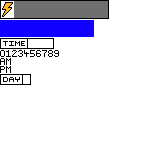
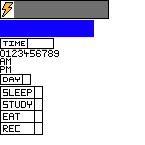
semi working activity count. breaks if activity is done more than 9 times so need to fix.

diff --git a/core/src/com/tecchtitans/eng1/systems/UIRenderSystem.java b/core/src/com/tecchtitans/eng1/systems/UIRenderSystem.java
@@ -192,6 +192,79 @@ public class UIRenderSystem extends EntitySystem {
 
                 // Draw number
                 batch.draw(texture, renderLocationX + numberXOffset, renderLocationY + numberYOffset, numberRenderWidth, numberRenderHeight, numberSrcX, numbersSrcY, numbersSrcWidth, numbersSrcHeight, false, false);
+            } else if (uiComponent.type == UIComponentType.ACTCOUNT) {
+                UIActivityCountComponent uiActivityCountComponent = ComponentMappers.activityCount.get(entity);
+
+                int outerSrcX = uiActivityCountComponent.outerPartSrcX;
+                int outerSrcY = uiActivityCountComponent.outerPartSrcY;
+
+                int outerSrcWidth = uiActivityCountComponent.outerPartSrcWidth;
+                int outerSrcHeight = uiActivityCountComponent.outerPartSrcHeight;
+
+                float totalWidthRatio = textureComponent.width / (float)outerSrcWidth;
+                float totalHeightRatio = textureComponent.height / (float)outerSrcHeight;
+
+                // Draw outer part
+                batch.draw(texture, renderLocationX, renderLocationY, renderWidth, renderHeight, outerSrcX, outerSrcY, outerSrcWidth, outerSrcHeight, false, false);
+
+                int sleepCount = uiActivityCountComponent.sleepCount;
+
+                int numbersSrcWidth = uiActivityCountComponent.numbersSrcWidth;
+                int numbersSrcHeight = uiActivityCountComponent.numbersSrcHeight;
+
+                int sleepNumberSrcX = uiActivityCountComponent.numbersSrcX + ((numbersSrcWidth + 1) * sleepCount);
+                int sleepNumberSrcY = uiActivityCountComponent.numbersSrcY;
+
+                int sleepNumberXOffset = Math.round(uiActivityCountComponent.sleepNumberXOffset * totalWidthRatio);
+                int sleepNumberYOffset = Math.round(uiActivityCountComponent.sleepNumberYOffset * totalHeightRatio);
+
+                int sleepNumberRenderWidth = Math.round(numbersSrcWidth * totalWidthRatio);
+                int sleepNumberRenderHeight = Math.round(numbersSrcHeight * totalHeightRatio);
+
+                // Draw sleep number
+                batch.draw(texture, renderLocationX + sleepNumberXOffset, renderLocationY + sleepNumberYOffset, sleepNumberRenderWidth, sleepNumberRenderHeight, sleepNumberSrcX, sleepNumberSrcY, numbersSrcWidth, numbersSrcHeight, false, false);
+
+                int studyCount = uiActivityCountComponent.studyCount;
+
+                int studyNumberSrcX = uiActivityCountComponent.numbersSrcX + ((numbersSrcWidth + 1) * studyCount);
+                int studyNumberSrcY = uiActivityCountComponent.numbersSrcY;
+
+                int studyNumberXOffset = Math.round(uiActivityCountComponent.studyNumberXOffset * totalWidthRatio);
+                int studyNumberYOffset = Math.round(uiActivityCountComponent.studyNumberYOffset * totalHeightRatio);
+
+                int studyNumberRenderWidth = Math.round(numbersSrcWidth * totalWidthRatio);
+                int studyNumberRenderHeight = Math.round(numbersSrcHeight * totalHeightRatio);
+
+                // Draw study number
+                batch.draw(texture, renderLocationX + studyNumberXOffset, renderLocationY + studyNumberYOffset, studyNumberRenderWidth, studyNumberRenderHeight, studyNumberSrcX, studyNumberSrcY, numbersSrcWidth, numbersSrcHeight, false, false);
+
+                int eatCount = uiActivityCountComponent.eatCount;
+
+                int eatNumberSrcX = uiActivityCountComponent.numbersSrcX + ((numbersSrcWidth + 1) * eatCount);
+                int eatNumberSrcY = uiActivityCountComponent.numbersSrcY;
+
+                int eatNumberXOffset = Math.round(uiActivityCountComponent.eatNumberXOffset * totalWidthRatio);
+                int eatNumberYOffset = Math.round(uiActivityCountComponent.eatNumberYOffset * totalHeightRatio);
+
+                int eatNumberRenderWidth = Math.round(numbersSrcWidth * totalWidthRatio);
+                int eatNumberRenderHeight = Math.round(numbersSrcHeight * totalHeightRatio);
+
+                // Draw eat number
+                batch.draw(texture, renderLocationX + eatNumberXOffset, renderLocationY + eatNumberYOffset, eatNumberRenderWidth, eatNumberRenderHeight, eatNumberSrcX, eatNumberSrcY, numbersSrcWidth, numbersSrcHeight, false, false);
+
+                int recCount = uiActivityCountComponent.recCount;
+
+                int recNumberSrcX = uiActivityCountComponent.numbersSrcX + ((numbersSrcWidth + 1) * recCount);
+                int recNumberSrcY = uiActivityCountComponent.numbersSrcY;
+
+                int recNumberXOffset = Math.round(uiActivityCountComponent.recNumberXOffset * totalWidthRatio);
+                int recNumberYOffset = Math.round(uiActivityCountComponent.recNumberYOffset * totalHeightRatio);
+
+                int recNumberRenderWidth = Math.round(numbersSrcWidth * totalWidthRatio);
+                int recNumberRenderHeight = Math.round(numbersSrcHeight * totalHeightRatio);
+
+                // Draw rec number
+                batch.draw(texture, renderLocationX + recNumberXOffset, renderLocationY + recNumberYOffset, recNumberRenderWidth, recNumberRenderHeight, recNumberSrcX, recNumberSrcY, numbersSrcWidth, numbersSrcHeight, false, false);
             }
         }
     }

diff --git a/core/src/com/tecchtitans/eng1/screens/PlayScreen.java b/core/src/com/tecchtitans/eng1/screens/PlayScreen.java
@@ -34,6 +34,7 @@ public class PlayScreen implements Screen {
     Entity energyBar;
     Entity timeUI;
     Entity dayCounter;
+    Entity activityCounter;
 
     public PlayScreen(ENGGame game) {
         this.game = game;
@@ -66,6 +67,56 @@ public class PlayScreen implements Screen {
         energyBar = createStatBar(50, Gdx.graphics.getHeight() - 100, 250, 50);
         timeUI = createUIClock(350, Gdx.graphics.getHeight() - 100, 150, 50);
         dayCounter = createUIDayCounter(550, Gdx.graphics.getHeight() - 100, 150, 50);
+        activityCounter = createUIActivityCounter(50, 50, 100, 100);
+    }
+
+    private Entity createUIActivityCounter(int renderX, int renderY, int width, int height) {
+        Entity activityCounter = new Entity();
+
+        UIComponent uiComponent = engine.createComponent(UIComponent.class);
+        uiComponent.type = UIComponentType.ACTCOUNT;
+        activityCounter.add(uiComponent);
+
+        TextureComponent textureComponent = engine.createComponent(TextureComponent.class);
+        textureComponent.texture = new Texture("stats.png");
+        textureComponent.srcStartX = 0;
+        textureComponent.srcStartY = 86;
+        textureComponent.width = width;
+        textureComponent.height = height;
+        activityCounter.add(textureComponent);
+
+        UIActivityCountComponent uiActivityCountComponent = engine.createComponent(UIActivityCountComponent.class);
+        uiActivityCountComponent.outerPartSrcX = 0;
+        uiActivityCountComponent.outerPartSrcY = 86;
+        uiActivityCountComponent.outerPartSrcWidth = 43;
+        uiActivityCountComponent.outerPartSrcHeight = 49;
+
+        uiActivityCountComponent.numbersSrcX = 0;
+        uiActivityCountComponent.numbersSrcY = 50;
+        uiActivityCountComponent.numbersSrcWidth = 5;
+        uiActivityCountComponent.numbersSrcHeight = 7;
+
+        uiActivityCountComponent.sleepNumberXOffset = 36;
+        uiActivityCountComponent.sleepNumberYOffset = 39;
+
+        uiActivityCountComponent.studyNumberXOffset = 36;
+        uiActivityCountComponent.studyNumberYOffset = 27;
+
+        uiActivityCountComponent.eatNumberXOffset = 36;
+        uiActivityCountComponent.eatNumberYOffset = 15;
+
+        uiActivityCountComponent.recNumberXOffset = 36;
+        uiActivityCountComponent.recNumberYOffset = 3;
+        activityCounter.add(uiActivityCountComponent);
+
+        PositionComponent positionComponent = engine.createComponent(PositionComponent.class);
+        positionComponent.positionVector.x = renderX;
+        positionComponent.positionVector.y = renderY;
+        activityCounter.add(positionComponent);
+
+        engine.addEntity(activityCounter);
+
+        return activityCounter;
     }
 
     private Entity createUIDayCounter(int renderX, int renderY, int width, int height) {
@@ -363,6 +414,12 @@ public class PlayScreen implements Screen {
         timeUI.getComponent(UITimeComponent.class).currentHour = engine.getSystem(GameSystem.class).getHour();
 
         dayCounter.getComponent(UIDayComponent.class).currentDay = engine.getSystem(GameSystem.class).getDay();
+
+        activityCounter.getComponent(UIActivityCountComponent.class).sleepCount = player.getComponent(PlayerComponent.class).activityCount.get(ActivityType.SLEEP);
+        activityCounter.getComponent(UIActivityCountComponent.class).studyCount = player.getComponent(PlayerComponent.class).activityCount.get(ActivityType.STUDY);
+        activityCounter.getComponent(UIActivityCountComponent.class).eatCount = player.getComponent(PlayerComponent.class).activityCount.get(ActivityType.EAT);
+        activityCounter.getComponent(UIActivityCountComponent.class).recCount = player.getComponent(PlayerComponent.class).activityCount.get(ActivityType.REC);
+
 
         //energyBar.getComponent(TextureComponent.class).width++;
         //energyBar.getComponent(TextureComponent.class).height++;

diff --git a/core/src/com/tecchtitans/eng1/components/UIActivityCountComponent.java b/core/src/com/tecchtitans/eng1/components/UIActivityCountComponent.java
@@ -1,0 +1,19 @@
+package com.tecchtitans.eng1.components;
+
+import com.badlogic.ashley.core.Component;
+
+public class UIActivityCountComponent implements Component {
+    public int outerPartSrcX, outerPartSrcY;
+    public int outerPartSrcWidth, outerPartSrcHeight;
+    public int numbersSrcX, numbersSrcY;
+    public int numbersSrcWidth, numbersSrcHeight;
+    public int sleepNumberXOffset, sleepNumberYOffset;
+    public int studyNumberXOffset, studyNumberYOffset;
+    public int eatNumberXOffset, eatNumberYOffset;
+    public int recNumberXOffset, recNumberYOffset;
+
+    public int sleepCount = 0;
+    public int studyCount = 0;
+    public int eatCount = 0;
+    public int recCount = 0;
+}

diff --git a/core/src/com/tecchtitans/eng1/components/ComponentMappers.java b/core/src/com/tecchtitans/eng1/components/ComponentMappers.java
@@ -16,4 +16,5 @@ public class ComponentMappers {
     public static final ComponentMapper<StatBarComponent> statBar = ComponentMapper.getFor(StatBarComponent.class);
     public static final ComponentMapper<UITimeComponent> time = ComponentMapper.getFor(UITimeComponent.class);
     public static final ComponentMapper<UIDayComponent> day = ComponentMapper.getFor(UIDayComponent.class);
+    public static final ComponentMapper<UIActivityCountComponent> activityCount = ComponentMapper.getFor(UIActivityCountComponent.class);
 }

diff --git a/core/src/com/tecchtitans/eng1/components/UIComponentType.java b/core/src/com/tecchtitans/eng1/components/UIComponentType.java
@@ -1,5 +1,5 @@
 package com.tecchtitans.eng1.components;
 
 public enum UIComponentType {
-    NULL, STATBAR, TIME, DAY
+    NULL, STATBAR, TIME, DAY, ACTCOUNT
 }
